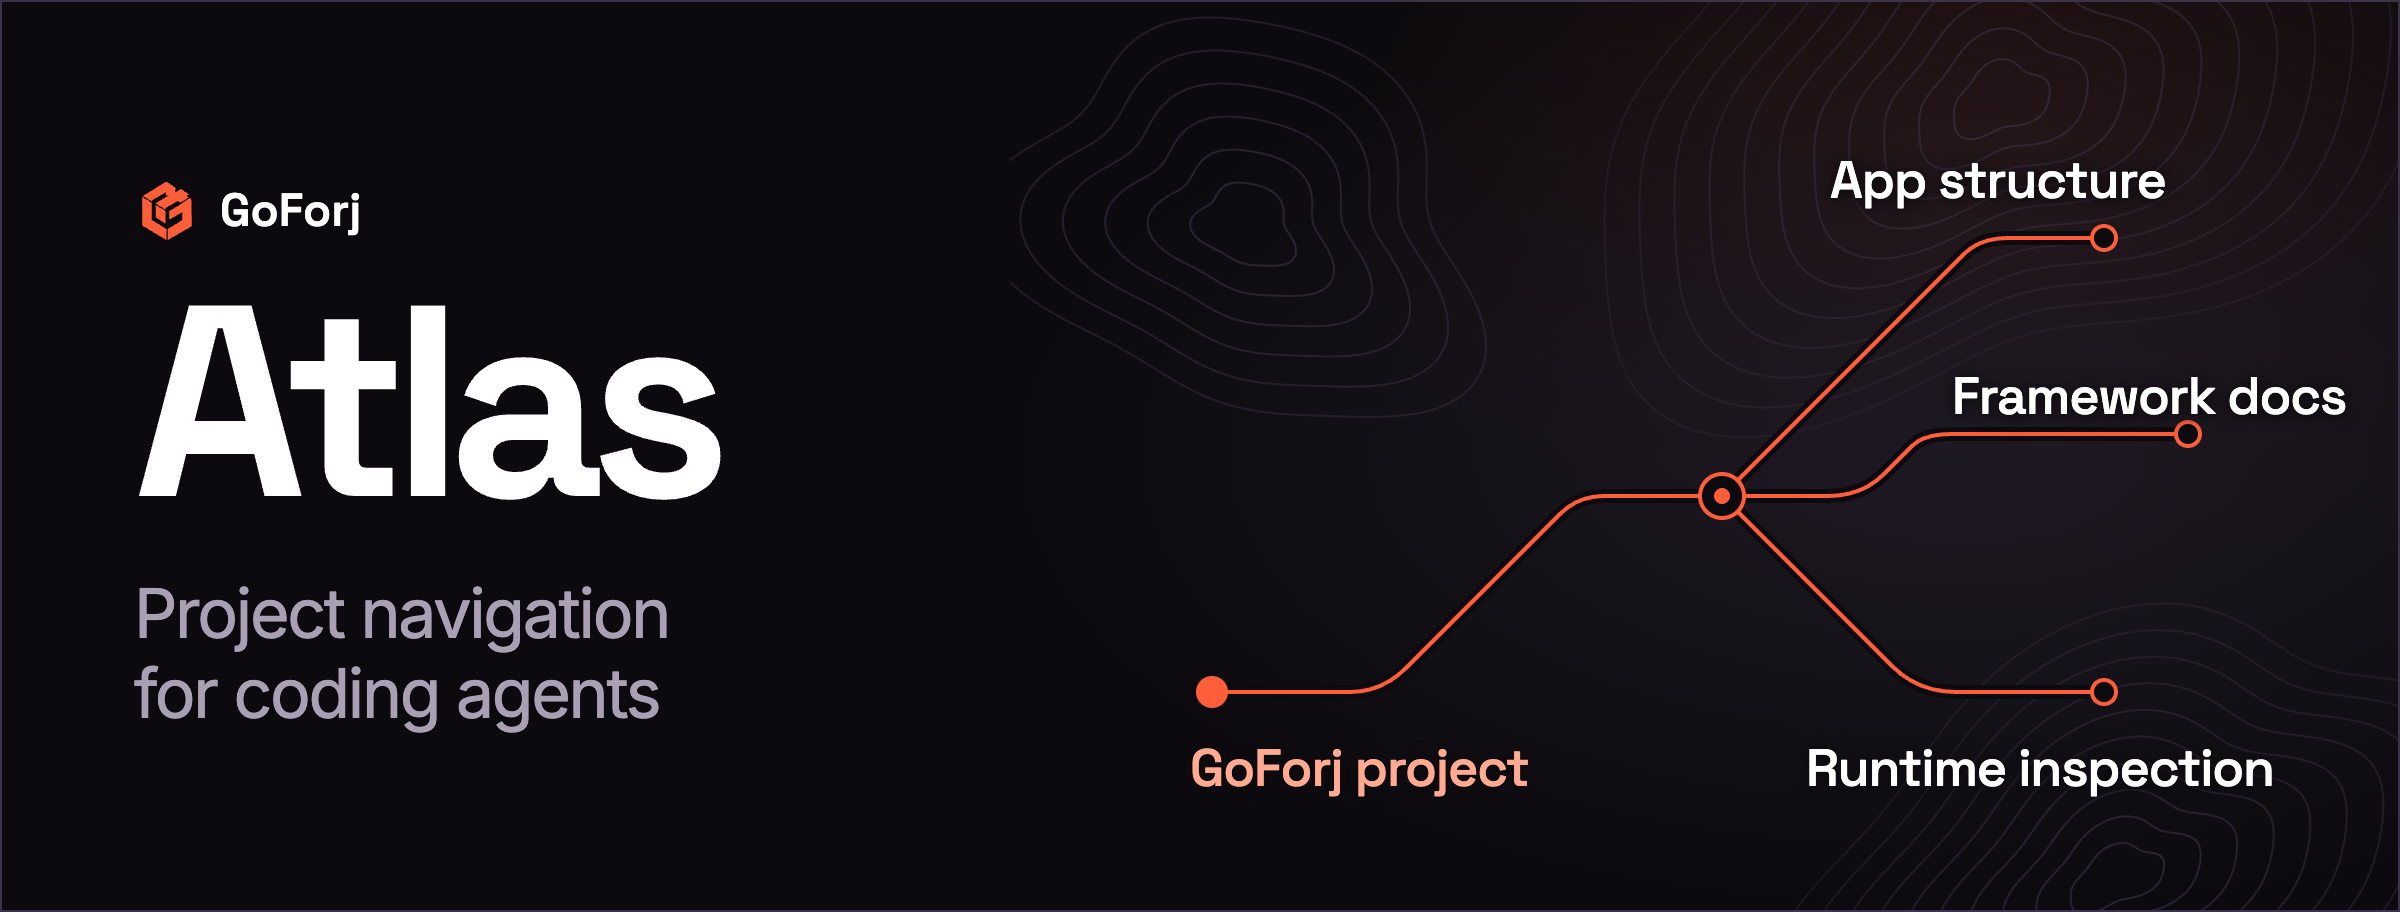
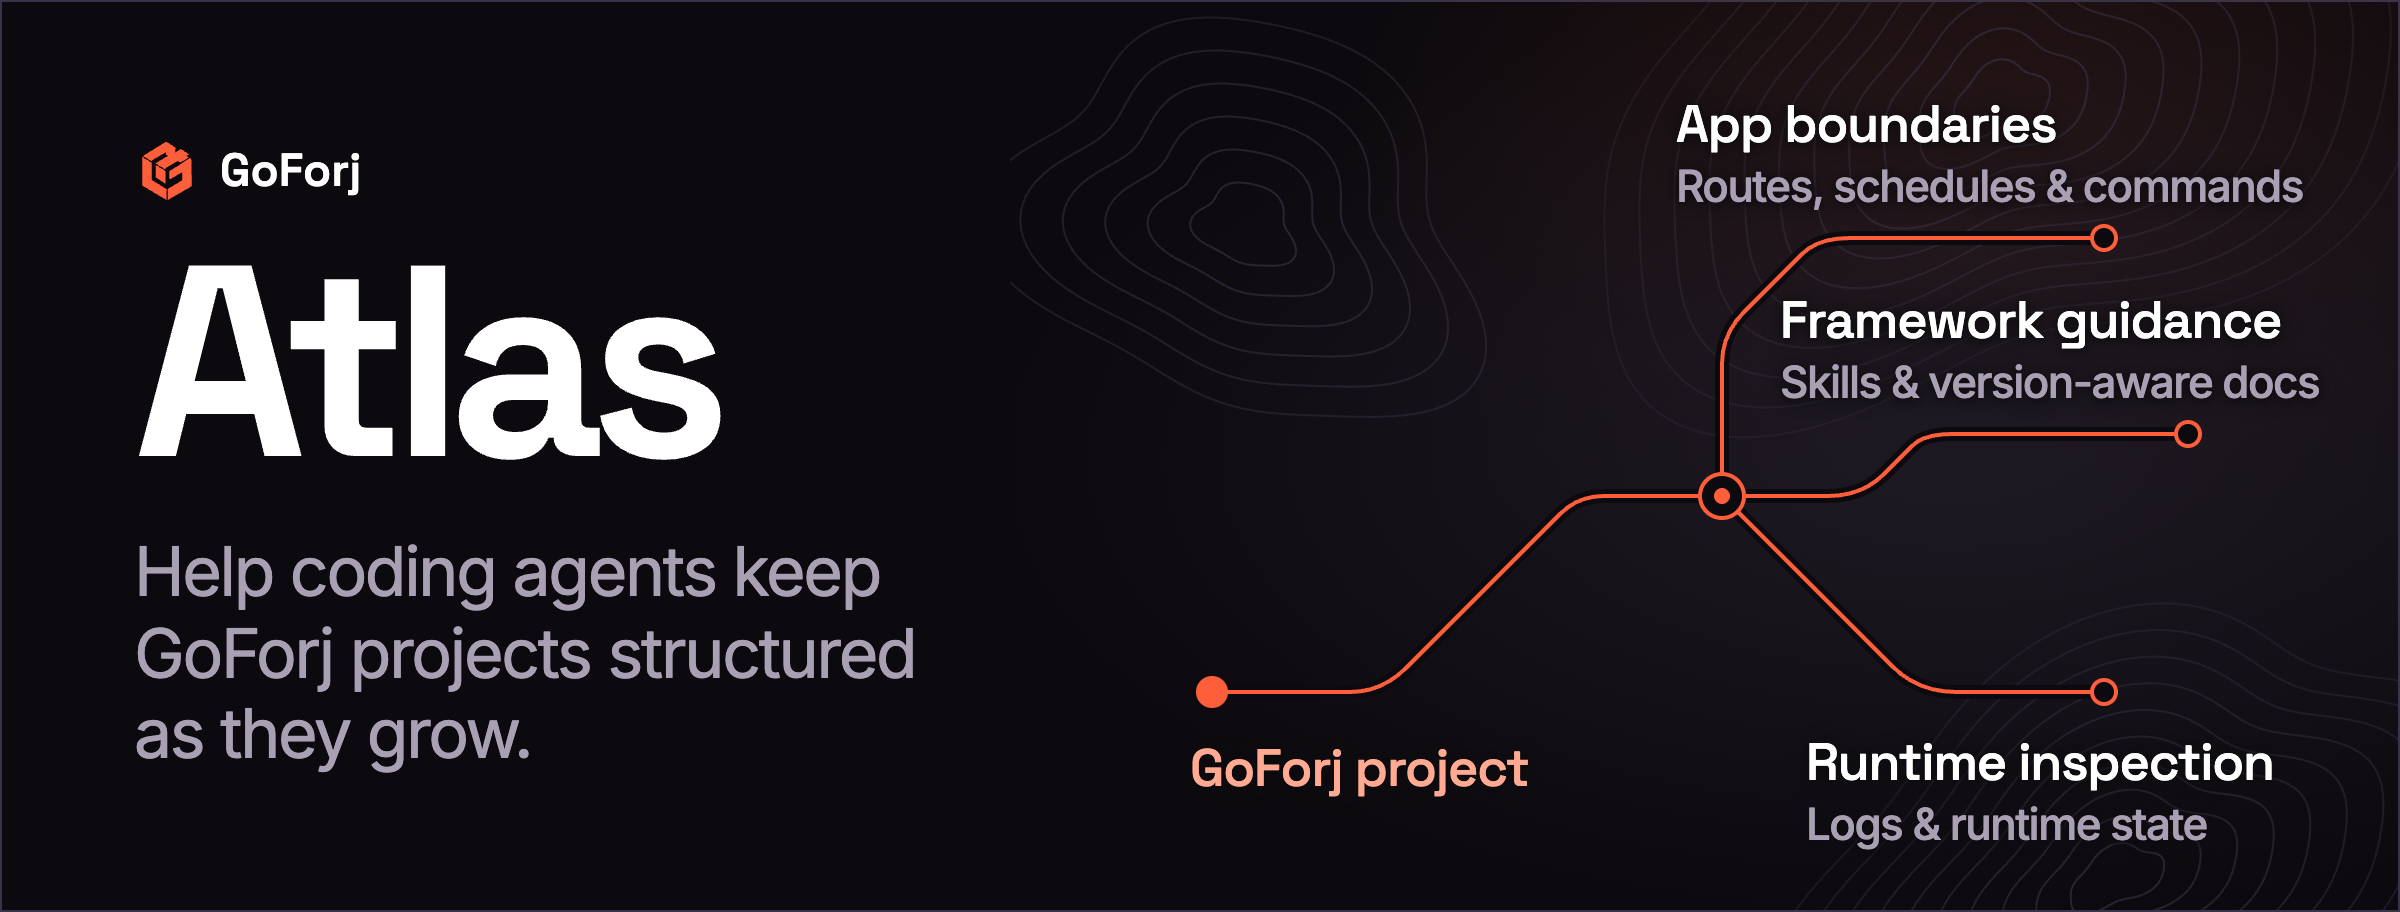
docs: show how Atlas supports growing GoForj projects

diff --git a/docs/assets/banner.html b/docs/assets/banner.html
@@ -55,6 +55,7 @@ h1 {
   margin: 18px 0 0;
   color: var(--gf-ink-2);
   font-size: 34px;
+  max-width: 435px;
   line-height: 1.18;
   letter-spacing: -.034em;
 }
@@ -92,10 +93,18 @@ h1 {
   white-space: nowrap;
 }
 
+.detail {
+  display: block;
+  margin-top: 4px;
+  color: var(--gf-ink-2);
+  font: 500 22px/1.15 var(--gf-font-body);
+  letter-spacing: -.035em;
+}
+
 .project { left: 90px; top: 369px; color: var(--gf-reference); }
-.structure { left: 410px; top: 75px; }
-.docs { left: 471px; top: 183px; }
-.runtime { left: 398px; top: 369px; }
+.structure { left: 333px; top: 47px; }
+.guidance { left: 385px; top: 145px; }
+.runtime { left: 398px; top: 366px; }
 </style>
 </head>
 <body>
@@ -106,14 +115,23 @@ h1 {
       <span>GoForj</span>
     </div>
     <h1>Atlas</h1>
-    <p class="summary">Project navigation<br>for coding agents</p>
+    <p class="summary">Help coding agents keep<br>GoForj projects structured<br>as they grow.</p>
   </div>
-  <figure class="map" role="img" aria-label="Paths through a GoForj project lead to App structure, framework docs, and runtime inspection.">
+  <figure class="map" role="img" aria-label="A GoForj project branches into App boundaries with routes, schedules, and commands, framework guidance with skills and version-aware docs, and runtime inspection with logs and runtime state.">
     <canvas width="1388" height="908" aria-hidden="true"></canvas>
     <span class="place project" aria-hidden="true">GoForj project</span>
-    <span class="place structure" aria-hidden="true">App structure</span>
-    <span class="place docs" aria-hidden="true">Framework docs</span>
-    <span class="place runtime" aria-hidden="true">Runtime inspection</span>
+    <span class="place structure" aria-hidden="true">
+      App boundaries
+      <span class="detail">Routes, schedules &amp; commands</span>
+    </span>
+    <span class="place guidance" aria-hidden="true">
+      Framework guidance
+      <span class="detail">Skills &amp; version-aware docs</span>
+    </span>
+    <span class="place runtime" aria-hidden="true">
+      Runtime inspection
+      <span class="detail">Logs &amp; runtime state</span>
+    </span>
   </figure>
 </main>
 <script>
@@ -157,7 +175,7 @@ context.lineCap = "round"
 context.lineJoin = "round"
 const routes = new Path2D(
   "M101 345H170Q186 345 198 333L275 256Q284 247 297 247H356" +
-  "M356 247L477 126Q485 118 499 118H547" +
+  "M356 247V181Q356 166 367 155L396 126Q404 118 420 118H547" +
   "M356 247H409Q426 247 437 236L451 222Q457 216 471 216H589" +
   "M356 247L441 332Q454 345 473 345H547"
 )

diff --git a/README.md b/README.md
@@ -1,15 +1,13 @@
 # GoForj Atlas
 
 <p align="center">
-  <img src="https://raw.githubusercontent.com/goforj/atlas/main/docs/assets/banner.png" alt="GoForj Atlas maps App structure, framework docs, and runtime inspection for coding agents.">
+  <img src="https://raw.githubusercontent.com/goforj/atlas/main/docs/assets/banner.png" alt="GoForj Atlas gives coding agents access to App routes, schedules, and commands, reusable skills and version-aware docs, and read-only runtime diagnostics.">
 </p>
 
-Agent-native project navigation and MCP tooling for GoForj.
-
-Atlas helps local coding agents understand GoForj projects without guessing
-framework conventions. It installs concise project guidance, synchronizes
-skills or agent-native instruction files, configures one project-level MCP
-server, and exposes safe read-only project inspection tools.
+Atlas helps coding agents keep GoForj projects structured as they grow.
+It installs project guidance, synchronizes skills or agent-native instruction
+files, and configures one project-level MCP server for App-aware inspection,
+version-aware docs, and read-only diagnostics.
 
 Users should normally reach Atlas through the GoForj CLI:
 
